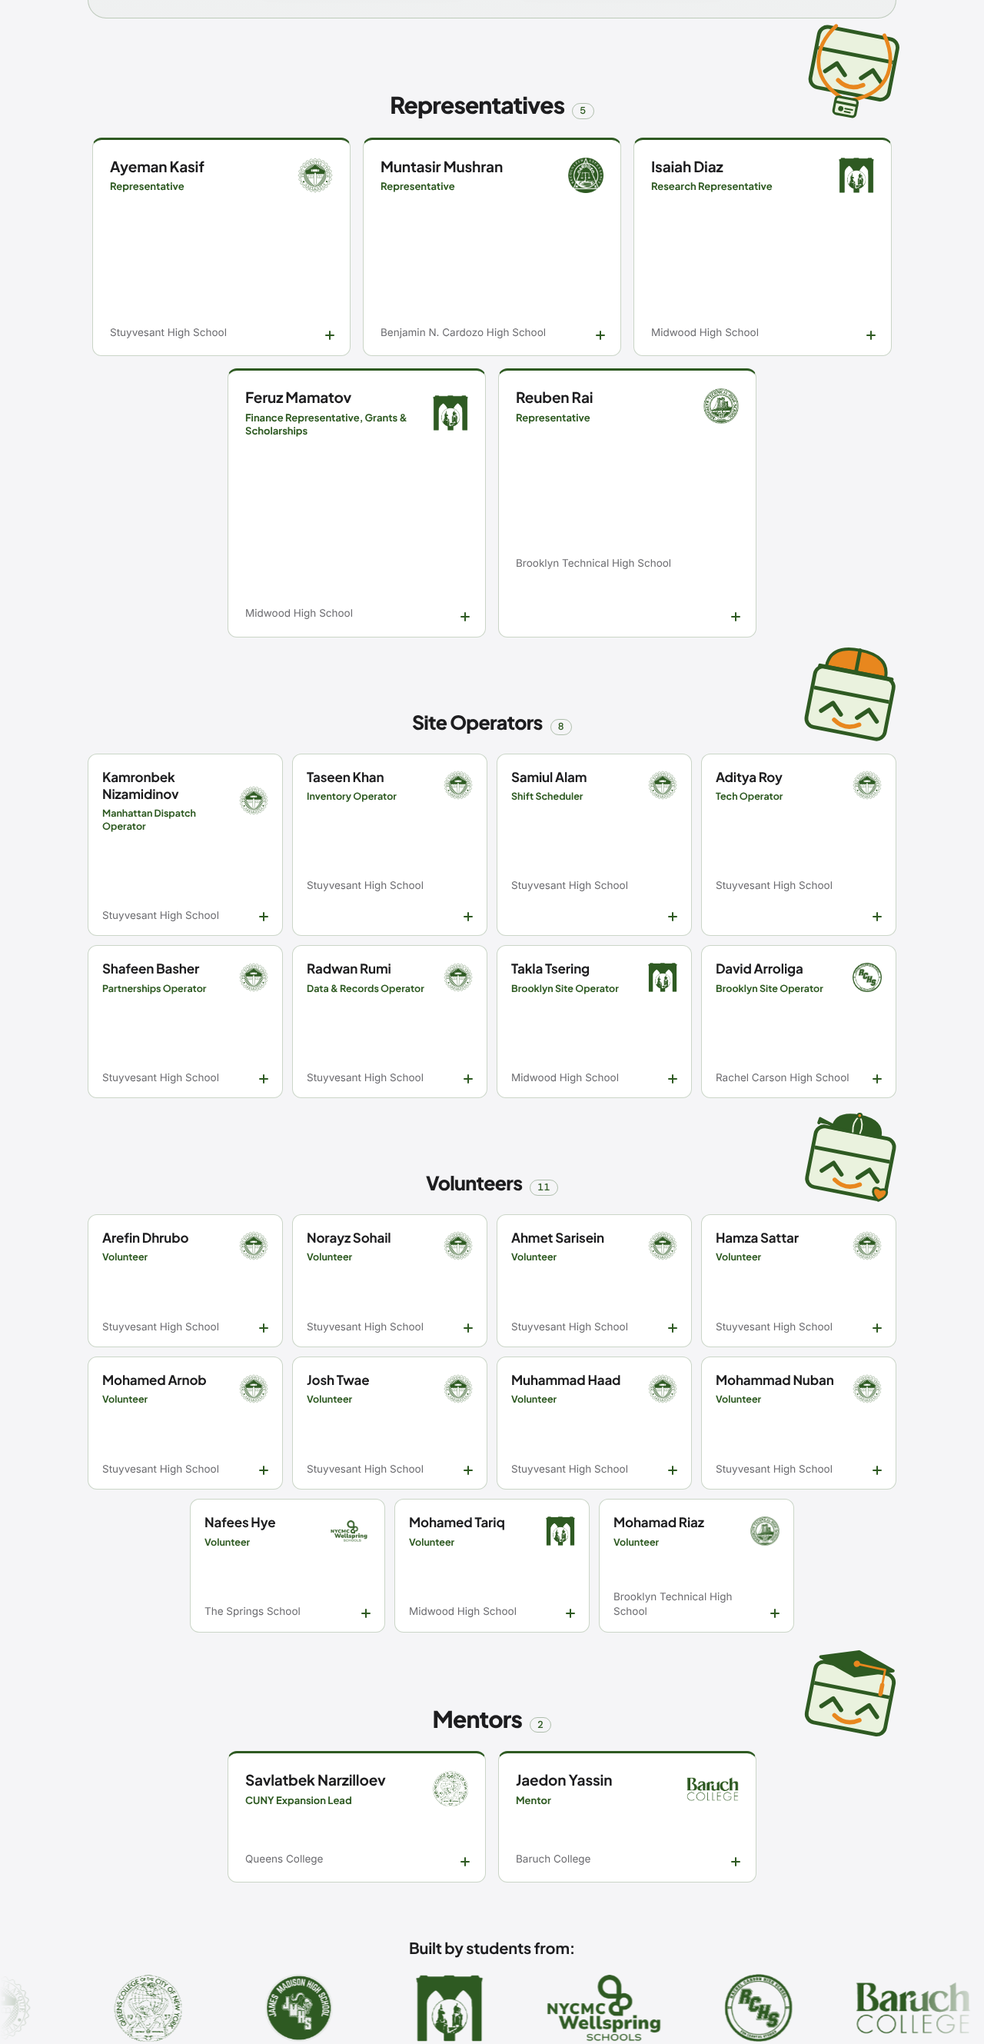
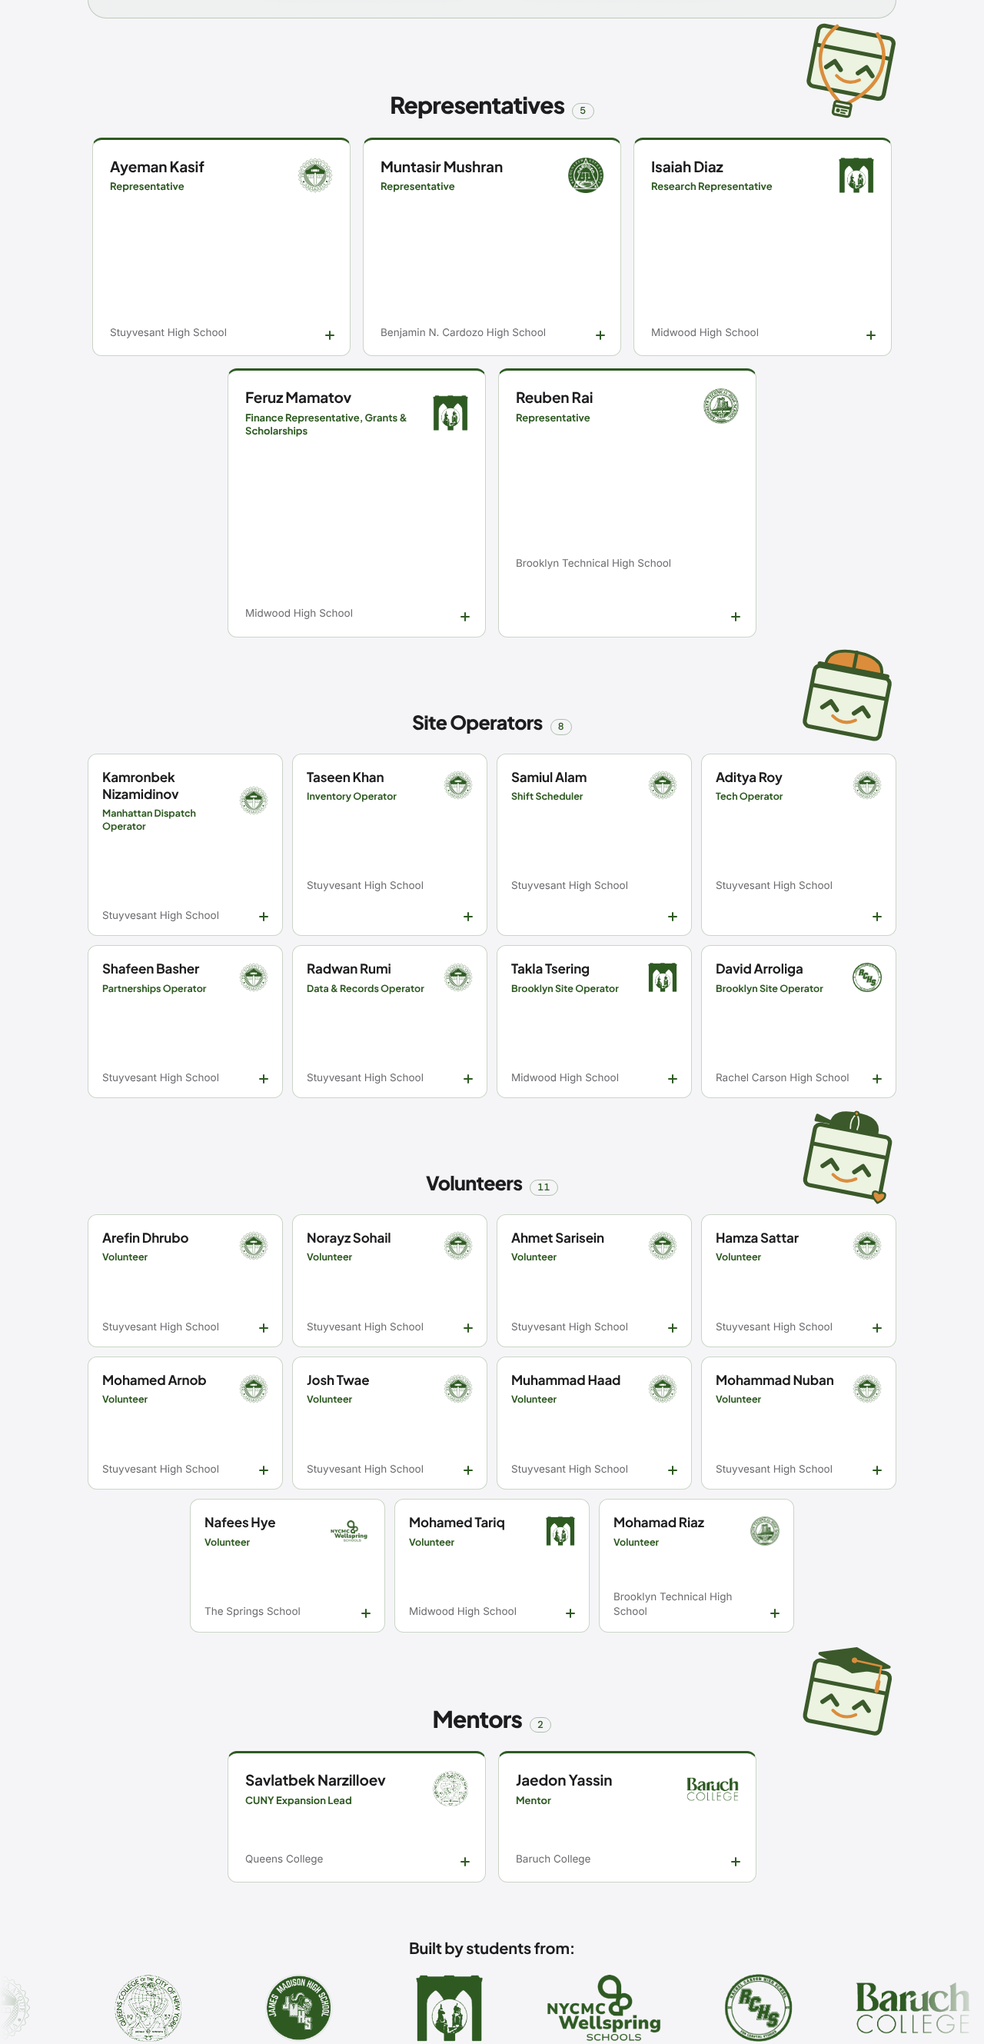
Tier mascots: trace the official mascot artwork
Rebuilds the base box, lid line, eyes and smile from the mascot PNG (measured
pixel geometry and colours; 98.9% pixel agreement) instead of reusing the
in-code site mascot, and re-fits each accessory to it. Updates PR screenshots.

Claude-Session: https://claude.ai/code/session_01WMiB1aNbwxVnGRHyfqtdzK

diff --git a/team.html b/team.html
@@ -139,12 +139,12 @@ try { var t = localStorage.getItem("stb-theme"); if (t === "light" || t === "dar
   .tier-mascot { position:absolute; right:0; width:120px; height:auto; z-index:1; pointer-events:none; overflow:visible;
     transform:rotate(11deg); transform-origin:50% 60%; top:calc(34px - var(--mh)); }
   .crew-exec .tier-mascot { right:-14px; }
-  .tier-mascot[data-tier="founder"] { --mh:116.8px; }
-  .tier-mascot[data-tier="exec"]    { --mh:96px; }
-  .tier-mascot[data-tier="rep"]     { --mh:116.8px; }
-  .tier-mascot[data-tier="ops"]     { --mh:116.8px; }
-  .tier-mascot[data-tier="vol"]     { --mh:110.4px; }
-  .tier-mascot[data-tier="mentor"]  { --mh:110.4px; }
+  .tier-mascot[data-tier="founder"] { --mh:117.8px; }
+  .tier-mascot[data-tier="exec"]    { --mh:97.5px; }
+  .tier-mascot[data-tier="rep"]     { --mh:118.0px; }
+  .tier-mascot[data-tier="ops"]     { --mh:115.3px; }
+  .tier-mascot[data-tier="vol"]     { --mh:114.9px; }
+  .tier-mascot[data-tier="mentor"]  { --mh:111.4px; }
   .crew + .crew { margin-top:96px; }
 
   .team-emblems { padding:24px 0 72px; }
@@ -160,12 +160,12 @@ try { var t = localStorage.getItem("stb-theme"); if (t === "light" || t === "dar
     .tier-mascot { width:68px; right:-4px; top:calc(-12px - var(--mh)); }
     .crew-exec .tier-mascot { right:-4px; top:calc(14px - var(--mh)); }
     .crew-founder .tier-mascot { top:calc(30px - var(--mh)); }
-    .tier-mascot[data-tier="founder"] { --mh:66.2px; }
-    .tier-mascot[data-tier="exec"]    { --mh:54.4px; }
-    .tier-mascot[data-tier="rep"]     { --mh:66.2px; }
-    .tier-mascot[data-tier="ops"]     { --mh:66.2px; }
-    .tier-mascot[data-tier="vol"]     { --mh:62.6px; }
-    .tier-mascot[data-tier="mentor"]  { --mh:62.6px; }
+    .tier-mascot[data-tier="founder"] { --mh:66.8px; }
+    .tier-mascot[data-tier="exec"]    { --mh:55.3px; }
+    .tier-mascot[data-tier="rep"]     { --mh:66.8px; }
+    .tier-mascot[data-tier="ops"]     { --mh:65.3px; }
+    .tier-mascot[data-tier="vol"]     { --mh:65.1px; }
+    .tier-mascot[data-tier="mentor"]  { --mh:63.2px; }
     .crew + .crew { margin-top:88px; }
     .crew-grid { gap:12px; }
     .crew-grid > li { flex-basis:100%; }
@@ -214,7 +214,7 @@ try { var t = localStorage.getItem("stb-theme"); if (t === "light" || t === "dar
     </header>
 
     <section class="crew crew-founder" aria-labelledby="founderHd" data-no-anchor>
-      <svg class="tier-mascot" data-tier="founder" viewBox="0 -64 300 292" xmlns="http://www.w3.org/2000/svg" aria-hidden="true" focusable="false"><rect x="20" y="20" width="260" height="200" rx="28" fill="var(--mascot-fill)" stroke="var(--mascot-stroke)" stroke-width="12"/><path d="M26 93 L274 93" fill="none" stroke="var(--mascot-stroke)" stroke-width="12"/><path d="M63 163 L96 131 L128 163" fill="none" stroke="var(--mascot-stroke)" stroke-width="14" stroke-linecap="round" stroke-linejoin="round"/><path d="M182 163 L215 131 L247 163" fill="none" stroke="var(--mascot-stroke)" stroke-width="14" stroke-linecap="round" stroke-linejoin="round"/><path d="M110 184 Q151 212 193 184" fill="none" stroke="var(--accent)" stroke-width="14" stroke-linecap="round"/><circle cx="96" cy="147" r="34" fill="none" stroke="var(--mascot-stroke)" stroke-width="9" stroke-linecap="round" stroke-linejoin="round"/><circle cx="215" cy="147" r="34" fill="none" stroke="var(--mascot-stroke)" stroke-width="9" stroke-linecap="round" stroke-linejoin="round"/><path d="M130 147 L181 147" fill="none" stroke="var(--mascot-stroke)" stroke-width="9" stroke-linecap="round" stroke-linejoin="round"/><rect x="96" y="-50" width="108" height="64" rx="8" fill="var(--mascot-stroke)" stroke="var(--mascot-stroke)" stroke-width="10" stroke-linecap="round" stroke-linejoin="round"/><path d="M96 -2 H204" fill="none" stroke="var(--accent)" stroke-width="16" stroke-linecap="round" stroke-linejoin="round"/><path d="M62 16 H238" fill="none" stroke="var(--mascot-stroke)" stroke-width="14" stroke-linecap="round" stroke-linejoin="round"/></svg>
+      <svg class="tier-mascot" data-tier="founder" viewBox="100 -30 940 923" xmlns="http://www.w3.org/2000/svg" aria-hidden="true" focusable="false"><rect x="150.5" y="226" width="779" height="627" rx="54" fill="#ECF3E1" stroke="#3B592A" stroke-width="41"/><path d="M150.5 431.5 H929.5" stroke="#3B592A" stroke-width="40"/><path d="M301 636 L375.5 562 L450 636" fill="none" stroke="#3B592A" stroke-width="46" stroke-linecap="round" stroke-linejoin="round"/><path d="M630 636 L704.5 562 L779 636" fill="none" stroke="#3B592A" stroke-width="46" stroke-linecap="round" stroke-linejoin="round"/><path d="M421 702 Q539.5 785 658 702" fill="none" stroke="#DB8D3C" stroke-width="32" stroke-linecap="round"/><ellipse cx="375.5" cy="594" rx="112" ry="82" fill="none" stroke="#3B592A" stroke-width="26" stroke-linecap="round" stroke-linejoin="round"/><ellipse cx="704.5" cy="594" rx="112" ry="82" fill="none" stroke="#3B592A" stroke-width="26" stroke-linecap="round" stroke-linejoin="round"/><path d="M487.5 594 H592.5" fill="none" stroke="#3B592A" stroke-width="26" stroke-linecap="round" stroke-linejoin="round"/><rect x="380" y="-6" width="320" height="200" rx="24" fill="#3B592A" stroke="#3B592A" stroke-width="22" stroke-linecap="round" stroke-linejoin="round"/><path d="M392 146 H688" fill="none" stroke="#DB8D3C" stroke-width="44" stroke-linecap="round" stroke-linejoin="round"/><path d="M300 198 H780" fill="none" stroke="#3B592A" stroke-width="41" stroke-linecap="round" stroke-linejoin="round"/></svg>
       <h2 class="crew-title" id="founderHd">Founder</h2>
       <ul class="crew-grid">
         <li><button type="button" class="person" aria-expanded="false" aria-describedby="role1">
@@ -226,7 +226,7 @@ try { var t = localStorage.getItem("stb-theme"); if (t === "light" || t === "dar
     </section>
 
     <section class="crew crew-exec" aria-labelledby="execHd" data-no-anchor>
-      <svg class="tier-mascot" data-tier="exec" viewBox="0 8 300 240" xmlns="http://www.w3.org/2000/svg" aria-hidden="true" focusable="false"><rect x="20" y="20" width="260" height="200" rx="28" fill="var(--mascot-fill)" stroke="var(--mascot-stroke)" stroke-width="12"/><path d="M26 93 L274 93" fill="none" stroke="var(--mascot-stroke)" stroke-width="12"/><path d="M63 163 L96 131 L128 163" fill="none" stroke="var(--mascot-stroke)" stroke-width="14" stroke-linecap="round" stroke-linejoin="round"/><path d="M182 163 L215 131 L247 163" fill="none" stroke="var(--mascot-stroke)" stroke-width="14" stroke-linecap="round" stroke-linejoin="round"/><path d="M110 184 Q151 212 193 184" fill="none" stroke="var(--accent)" stroke-width="14" stroke-linecap="round"/><clipPath id="tm-body"><rect x="26" y="26" width="248" height="188" rx="22"/></clipPath><g clip-path="url(#tm-body)"><path d="M26 140 L72 214 L26 214 Z" fill="var(--mascot-stroke)"/><path d="M274 140 L228 214 L274 214 Z" fill="var(--mascot-stroke)"/></g><path d="M150 224 L110 204 V244 Z" fill="var(--accent)" stroke="var(--mascot-stroke)" stroke-width="8" stroke-linecap="round" stroke-linejoin="round"/><path d="M150 224 L190 204 V244 Z" fill="var(--accent)" stroke="var(--mascot-stroke)" stroke-width="8" stroke-linecap="round" stroke-linejoin="round"/><rect x="138" y="212" width="24" height="24" rx="7" fill="var(--accent)" stroke="var(--mascot-stroke)" stroke-width="8" stroke-linecap="round" stroke-linejoin="round"/></svg>
+      <svg class="tier-mascot" data-tier="exec" viewBox="100 186 940 764" xmlns="http://www.w3.org/2000/svg" aria-hidden="true" focusable="false"><rect x="150.5" y="226" width="779" height="627" rx="54" fill="#ECF3E1" stroke="#3B592A" stroke-width="41"/><path d="M150.5 431.5 H929.5" stroke="#3B592A" stroke-width="40"/><path d="M301 636 L375.5 562 L450 636" fill="none" stroke="#3B592A" stroke-width="46" stroke-linecap="round" stroke-linejoin="round"/><path d="M630 636 L704.5 562 L779 636" fill="none" stroke="#3B592A" stroke-width="46" stroke-linecap="round" stroke-linejoin="round"/><path d="M421 702 Q539.5 785 658 702" fill="none" stroke="#DB8D3C" stroke-width="32" stroke-linecap="round"/><clipPath id="tm-body"><rect x="171" y="246.5" width="738" height="586" rx="34"/></clipPath><g clip-path="url(#tm-body)"><path d="M150 560 L320 873 L150 873 Z" fill="#3B592A"/><path d="M930 560 L760 873 L930 873 Z" fill="#3B592A"/></g><path d="M540 873 L420 813 V933 Z" fill="#DB8D3C" stroke="#3B592A" stroke-width="26" stroke-linecap="round" stroke-linejoin="round"/><path d="M540 873 L660 813 V933 Z" fill="#DB8D3C" stroke="#3B592A" stroke-width="26" stroke-linecap="round" stroke-linejoin="round"/><rect x="504" y="837" width="72" height="72" rx="20" fill="#DB8D3C" stroke="#3B592A" stroke-width="26" stroke-linecap="round" stroke-linejoin="round"/></svg>
       <h2 class="crew-title" id="execHd">Executive Board <span class="crew-count">8</span></h2>
       <ul class="crew-grid">
         <li><button type="button" class="person" aria-expanded="false" aria-describedby="role2">
@@ -273,7 +273,7 @@ try { var t = localStorage.getItem("stb-theme"); if (t === "light" || t === "dar
     </section>
 
     <section class="crew crew-rep" aria-labelledby="repsHd" data-no-anchor>
-      <svg class="tier-mascot" data-tier="rep" viewBox="0 8 300 292" xmlns="http://www.w3.org/2000/svg" aria-hidden="true" focusable="false"><rect x="20" y="20" width="260" height="200" rx="28" fill="var(--mascot-fill)" stroke="var(--mascot-stroke)" stroke-width="12"/><path d="M26 93 L274 93" fill="none" stroke="var(--mascot-stroke)" stroke-width="12"/><path d="M63 163 L96 131 L128 163" fill="none" stroke="var(--mascot-stroke)" stroke-width="14" stroke-linecap="round" stroke-linejoin="round"/><path d="M182 163 L215 131 L247 163" fill="none" stroke="var(--mascot-stroke)" stroke-width="14" stroke-linecap="round" stroke-linejoin="round"/><path d="M110 184 Q151 212 193 184" fill="none" stroke="var(--accent)" stroke-width="14" stroke-linecap="round"/><path d="M70 12 C14 90 14 190 132 238" fill="none" stroke="var(--accent)" stroke-width="12" stroke-linecap="round" stroke-linejoin="round"/><path d="M230 12 C286 90 286 190 168 238" fill="none" stroke="var(--accent)" stroke-width="12" stroke-linecap="round" stroke-linejoin="round"/><rect x="150" y="226" width="0" height="0"/><path d="M132 238 H168" fill="none" stroke="var(--mascot-stroke)" stroke-width="8" stroke-linecap="round" stroke-linejoin="round"/><rect x="114" y="236" width="72" height="56" rx="10" fill="var(--mascot-fill)" stroke="var(--mascot-stroke)" stroke-width="8" stroke-linecap="round" stroke-linejoin="round"/><path d="M114 254 H186" fill="none" stroke="var(--mascot-stroke)" stroke-width="8" stroke-linecap="round" stroke-linejoin="round"/><circle cx="136" cy="273" r="6" fill="var(--mascot-stroke)" stroke="var(--mascot-stroke)" stroke-width="5" stroke-linecap="round" stroke-linejoin="round"/><path d="M150 270 H174 M150 280 H168" fill="none" stroke="var(--mascot-stroke)" stroke-width="5" stroke-linecap="round" stroke-linejoin="round"/></svg>
+      <svg class="tier-mascot" data-tier="rep" viewBox="100 186 940 924" xmlns="http://www.w3.org/2000/svg" aria-hidden="true" focusable="false"><rect x="150.5" y="226" width="779" height="627" rx="54" fill="#ECF3E1" stroke="#3B592A" stroke-width="41"/><path d="M150.5 431.5 H929.5" stroke="#3B592A" stroke-width="40"/><path d="M301 636 L375.5 562 L450 636" fill="none" stroke="#3B592A" stroke-width="46" stroke-linecap="round" stroke-linejoin="round"/><path d="M630 636 L704.5 562 L779 636" fill="none" stroke="#3B592A" stroke-width="46" stroke-linecap="round" stroke-linejoin="round"/><path d="M421 702 Q539.5 785 658 702" fill="none" stroke="#DB8D3C" stroke-width="32" stroke-linecap="round"/><path d="M330 206 C160 400 160 700 500 962" fill="none" stroke="#DB8D3C" stroke-width="36" stroke-linecap="round" stroke-linejoin="round"/><path d="M749 206 C919 400 919 700 579 962" fill="none" stroke="#DB8D3C" stroke-width="36" stroke-linecap="round" stroke-linejoin="round"/><rect x="455" y="958" width="170" height="134" rx="22" fill="#ECF3E1" stroke="#3B592A" stroke-width="26" stroke-linecap="round" stroke-linejoin="round"/><path d="M455 1004 H625" fill="none" stroke="#3B592A" stroke-width="26" stroke-linecap="round" stroke-linejoin="round"/><circle cx="502" cy="1046" r="14" fill="#3B592A" stroke="#3B592A" stroke-width="12" stroke-linecap="round" stroke-linejoin="round"/><path d="M536 1036 H592 M536 1062 H576" fill="none" stroke="#3B592A" stroke-width="16" stroke-linecap="round" stroke-linejoin="round"/></svg>
       <h2 class="crew-title" id="repsHd">Representatives <span class="crew-count">5</span></h2>
       <ul class="crew-grid">
         <li><button type="button" class="person" aria-expanded="false" aria-describedby="role13">
@@ -305,7 +305,7 @@ try { var t = localStorage.getItem("stb-theme"); if (t === "light" || t === "dar
     </section>
 
     <section class="crew crew-ops" aria-labelledby="opsHd" data-no-anchor>
-      <svg class="tier-mascot" data-tier="ops" viewBox="0 -60 300 292" xmlns="http://www.w3.org/2000/svg" aria-hidden="true" focusable="false"><rect x="20" y="20" width="260" height="200" rx="28" fill="var(--mascot-fill)" stroke="var(--mascot-stroke)" stroke-width="12"/><path d="M26 93 L274 93" fill="none" stroke="var(--mascot-stroke)" stroke-width="12"/><path d="M63 163 L96 131 L128 163" fill="none" stroke="var(--mascot-stroke)" stroke-width="14" stroke-linecap="round" stroke-linejoin="round"/><path d="M182 163 L215 131 L247 163" fill="none" stroke="var(--mascot-stroke)" stroke-width="14" stroke-linecap="round" stroke-linejoin="round"/><path d="M110 184 Q151 212 193 184" fill="none" stroke="var(--accent)" stroke-width="14" stroke-linecap="round"/><path d="M52 18 C52 -40 98 -54 150 -54 C202 -54 248 -40 248 18 Z" fill="var(--accent)" stroke="var(--mascot-stroke)" stroke-width="10" stroke-linecap="round" stroke-linejoin="round"/><path d="M150 -54 V16" fill="none" stroke="var(--mascot-stroke)" stroke-width="12" stroke-linecap="round" stroke-linejoin="round"/><path d="M32 20 H268" fill="none" stroke="var(--mascot-stroke)" stroke-width="14" stroke-linecap="round" stroke-linejoin="round"/></svg>
+      <svg class="tier-mascot" data-tier="ops" viewBox="100 -10 940 903" xmlns="http://www.w3.org/2000/svg" aria-hidden="true" focusable="false"><rect x="150.5" y="226" width="779" height="627" rx="54" fill="#ECF3E1" stroke="#3B592A" stroke-width="41"/><path d="M150.5 431.5 H929.5" stroke="#3B592A" stroke-width="40"/><path d="M301 636 L375.5 562 L450 636" fill="none" stroke="#3B592A" stroke-width="46" stroke-linecap="round" stroke-linejoin="round"/><path d="M630 636 L704.5 562 L779 636" fill="none" stroke="#3B592A" stroke-width="46" stroke-linecap="round" stroke-linejoin="round"/><path d="M421 702 Q539.5 785 658 702" fill="none" stroke="#DB8D3C" stroke-width="32" stroke-linecap="round"/><path d="M250 200 C250 60 380 20 540 20 C700 20 830 60 830 200 Z" fill="#DB8D3C" stroke="#3B592A" stroke-width="30" stroke-linecap="round" stroke-linejoin="round"/><path d="M540 20 V196" fill="none" stroke="#3B592A" stroke-width="36" stroke-linecap="round" stroke-linejoin="round"/><path d="M190 204 H890" fill="none" stroke="#3B592A" stroke-width="44" stroke-linecap="round" stroke-linejoin="round"/></svg>
       <h2 class="crew-title" id="opsHd">Site Operators <span class="crew-count">8</span></h2>
       <ul class="crew-grid">
         <li><button type="button" class="person" aria-expanded="false" aria-describedby="role18">
@@ -352,7 +352,7 @@ try { var t = localStorage.getItem("stb-theme"); if (t === "light" || t === "dar
     </section>
 
     <section class="crew crew-ops crew-vol" aria-labelledby="volHd" data-no-anchor>
-      <svg class="tier-mascot" data-tier="vol" viewBox="0 -40 300 276" xmlns="http://www.w3.org/2000/svg" aria-hidden="true" focusable="false"><rect x="20" y="20" width="260" height="200" rx="28" fill="var(--mascot-fill)" stroke="var(--mascot-stroke)" stroke-width="12"/><path d="M26 93 L274 93" fill="none" stroke="var(--mascot-stroke)" stroke-width="12"/><path d="M63 163 L96 131 L128 163" fill="none" stroke="var(--mascot-stroke)" stroke-width="14" stroke-linecap="round" stroke-linejoin="round"/><path d="M182 163 L215 131 L247 163" fill="none" stroke="var(--mascot-stroke)" stroke-width="14" stroke-linecap="round" stroke-linejoin="round"/><path d="M110 184 Q151 212 193 184" fill="none" stroke="var(--accent)" stroke-width="14" stroke-linecap="round"/><path d="M72 20 C72 -22 108 -34 150 -34 C192 -34 228 -22 228 20 Z" fill="var(--mascot-stroke)" stroke="var(--mascot-stroke)" stroke-width="10" stroke-linecap="round" stroke-linejoin="round"/><path d="M150 -34 C134 -16 134 4 138 20 M150 -34 C166 -16 166 4 162 20" fill="none" stroke="var(--mascot-fill)" stroke-width="5" stroke-linecap="round"/><circle cx="150" cy="-36" r="7" fill="var(--accent)" stroke="var(--mascot-stroke)" stroke-width="5" stroke-linecap="round" stroke-linejoin="round"/><path d="M72 12 L26 -2 L24 12" fill="var(--mascot-stroke)" stroke="var(--mascot-stroke)" stroke-width="10" stroke-linecap="round" stroke-linejoin="round"/><path d="M262 224 C226 200 238 174 262 188 C286 174 298 200 262 224 Z" fill="var(--accent)" stroke="var(--mascot-stroke)" stroke-width="7" stroke-linecap="round" stroke-linejoin="round"/></svg>
+      <svg class="tier-mascot" data-tier="vol" viewBox="100 10 940 900" xmlns="http://www.w3.org/2000/svg" aria-hidden="true" focusable="false"><path d="M320 186 L150 140 L144 190 Z" fill="#3B592A" stroke="#3B592A" stroke-width="30" stroke-linecap="round" stroke-linejoin="round"/><rect x="150.5" y="226" width="779" height="627" rx="54" fill="#ECF3E1" stroke="#3B592A" stroke-width="41"/><path d="M150.5 431.5 H929.5" stroke="#3B592A" stroke-width="40"/><path d="M301 636 L375.5 562 L450 636" fill="none" stroke="#3B592A" stroke-width="46" stroke-linecap="round" stroke-linejoin="round"/><path d="M630 636 L704.5 562 L779 636" fill="none" stroke="#3B592A" stroke-width="46" stroke-linecap="round" stroke-linejoin="round"/><path d="M421 702 Q539.5 785 658 702" fill="none" stroke="#DB8D3C" stroke-width="32" stroke-linecap="round"/><path d="M300 206 C300 80 400 50 540 50 C680 50 780 80 780 206 Z" fill="#3B592A" stroke="#3B592A" stroke-width="30" stroke-linecap="round" stroke-linejoin="round"/><path d="M540 50 C495 100 495 160 505 206 M540 50 C585 100 585 160 575 206" fill="none" stroke="#ECF3E1" stroke-width="14" stroke-linecap="round"/><circle cx="540" cy="46" r="20" fill="#DB8D3C" stroke="#3B592A" stroke-width="14" stroke-linecap="round" stroke-linejoin="round"/><path d="M920 900 C820 830 850 760 920 800 C990 760 1020 830 920 900 Z" fill="#DB8D3C" stroke="#3B592A" stroke-width="20" stroke-linecap="round" stroke-linejoin="round"/></svg>
       <h2 class="crew-title" id="volHd">Volunteers <span class="crew-count">11</span></h2>
       <ul class="crew-grid">
         <li><button type="button" class="person" aria-expanded="false" aria-describedby="role19">
@@ -414,7 +414,7 @@ try { var t = localStorage.getItem("stb-theme"); if (t === "light" || t === "dar
     </section>
 
     <section class="crew crew-mentor" aria-labelledby="mentorsHd" data-no-anchor>
-      <svg class="tier-mascot" data-tier="mentor" viewBox="0 -46 300 276" xmlns="http://www.w3.org/2000/svg" aria-hidden="true" focusable="false"><rect x="20" y="20" width="260" height="200" rx="28" fill="var(--mascot-fill)" stroke="var(--mascot-stroke)" stroke-width="12"/><path d="M26 93 L274 93" fill="none" stroke="var(--mascot-stroke)" stroke-width="12"/><path d="M63 163 L96 131 L128 163" fill="none" stroke="var(--mascot-stroke)" stroke-width="14" stroke-linecap="round" stroke-linejoin="round"/><path d="M182 163 L215 131 L247 163" fill="none" stroke="var(--mascot-stroke)" stroke-width="14" stroke-linecap="round" stroke-linejoin="round"/><path d="M110 184 Q151 212 193 184" fill="none" stroke="var(--accent)" stroke-width="14" stroke-linecap="round"/><path d="M150 -34 L270 6 L150 46 L30 6 Z" fill="var(--mascot-stroke)" stroke="var(--mascot-stroke)" stroke-width="10" stroke-linecap="round" stroke-linejoin="round"/><path d="M150 6 L244 8 V58" fill="none" stroke="var(--accent)" stroke-width="7" stroke-linecap="round" stroke-linejoin="round"/><path d="M244 58 V88" fill="none" stroke="var(--accent)" stroke-width="14" stroke-linecap="round" stroke-linejoin="round"/><circle cx="150" cy="6" r="8" fill="var(--accent)" stroke="var(--accent)" stroke-width="5" stroke-linecap="round" stroke-linejoin="round"/></svg>
+      <svg class="tier-mascot" data-tier="mentor" viewBox="100 20 940 873" xmlns="http://www.w3.org/2000/svg" aria-hidden="true" focusable="false"><rect x="150.5" y="226" width="779" height="627" rx="54" fill="#ECF3E1" stroke="#3B592A" stroke-width="41"/><path d="M150.5 431.5 H929.5" stroke="#3B592A" stroke-width="40"/><path d="M301 636 L375.5 562 L450 636" fill="none" stroke="#3B592A" stroke-width="46" stroke-linecap="round" stroke-linejoin="round"/><path d="M630 636 L704.5 562 L779 636" fill="none" stroke="#3B592A" stroke-width="46" stroke-linecap="round" stroke-linejoin="round"/><path d="M421 702 Q539.5 785 658 702" fill="none" stroke="#DB8D3C" stroke-width="32" stroke-linecap="round"/><path d="M540 40 L900 160 L540 280 L180 160 Z" fill="#3B592A" stroke="#3B592A" stroke-width="30" stroke-linecap="round" stroke-linejoin="round"/><path d="M540 160 L820 168 V330" fill="none" stroke="#DB8D3C" stroke-width="20" stroke-linecap="round" stroke-linejoin="round"/><path d="M820 330 V420" fill="none" stroke="#DB8D3C" stroke-width="44" stroke-linecap="round" stroke-linejoin="round"/><circle cx="540" cy="160" r="22" fill="#DB8D3C" stroke="#DB8D3C" stroke-width="12" stroke-linecap="round" stroke-linejoin="round"/></svg>
       <h2 class="crew-title" id="mentorsHd">Mentors <span class="crew-count">2</span></h2>
       <ul class="crew-grid">
         <li><button type="button" class="person" aria-expanded="false" aria-describedby="role20">
